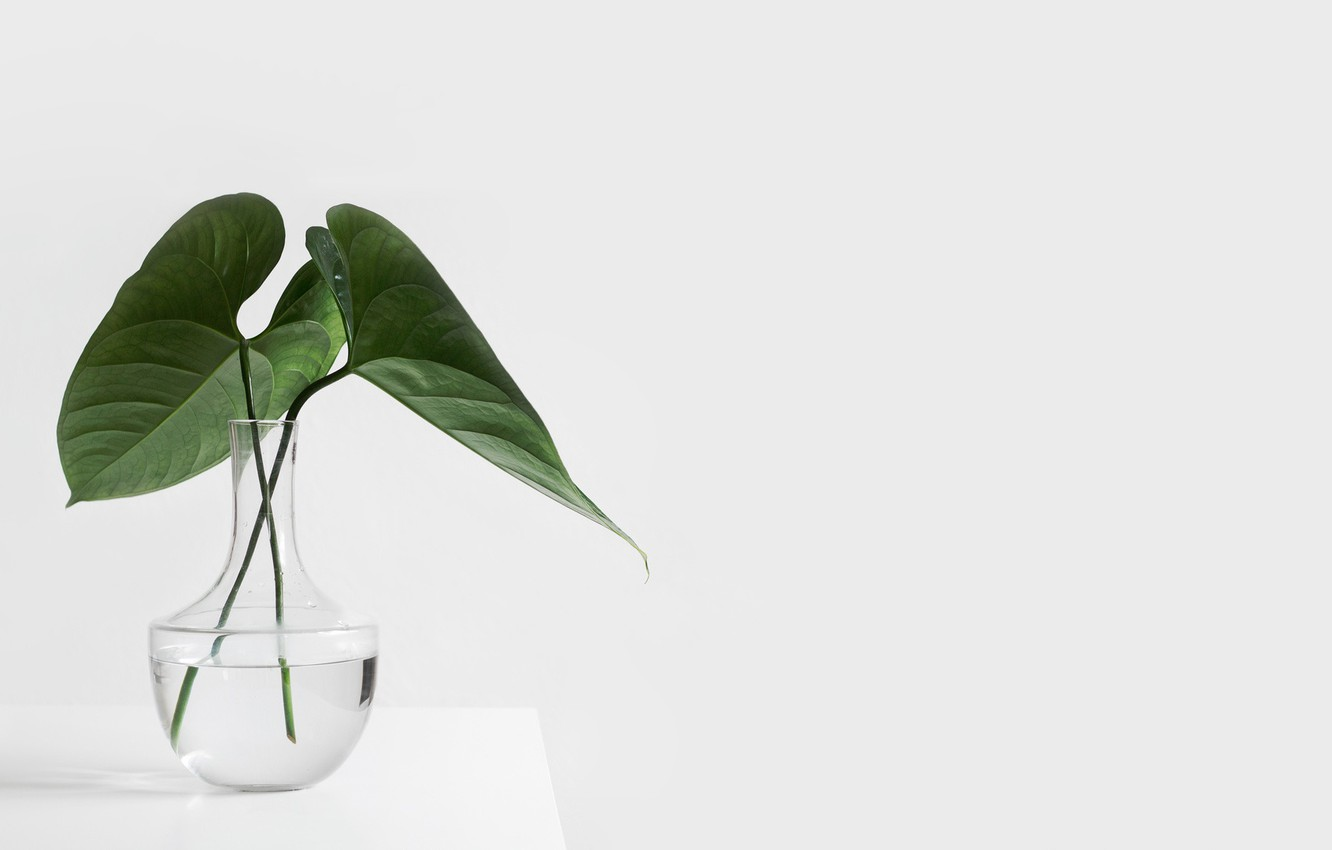
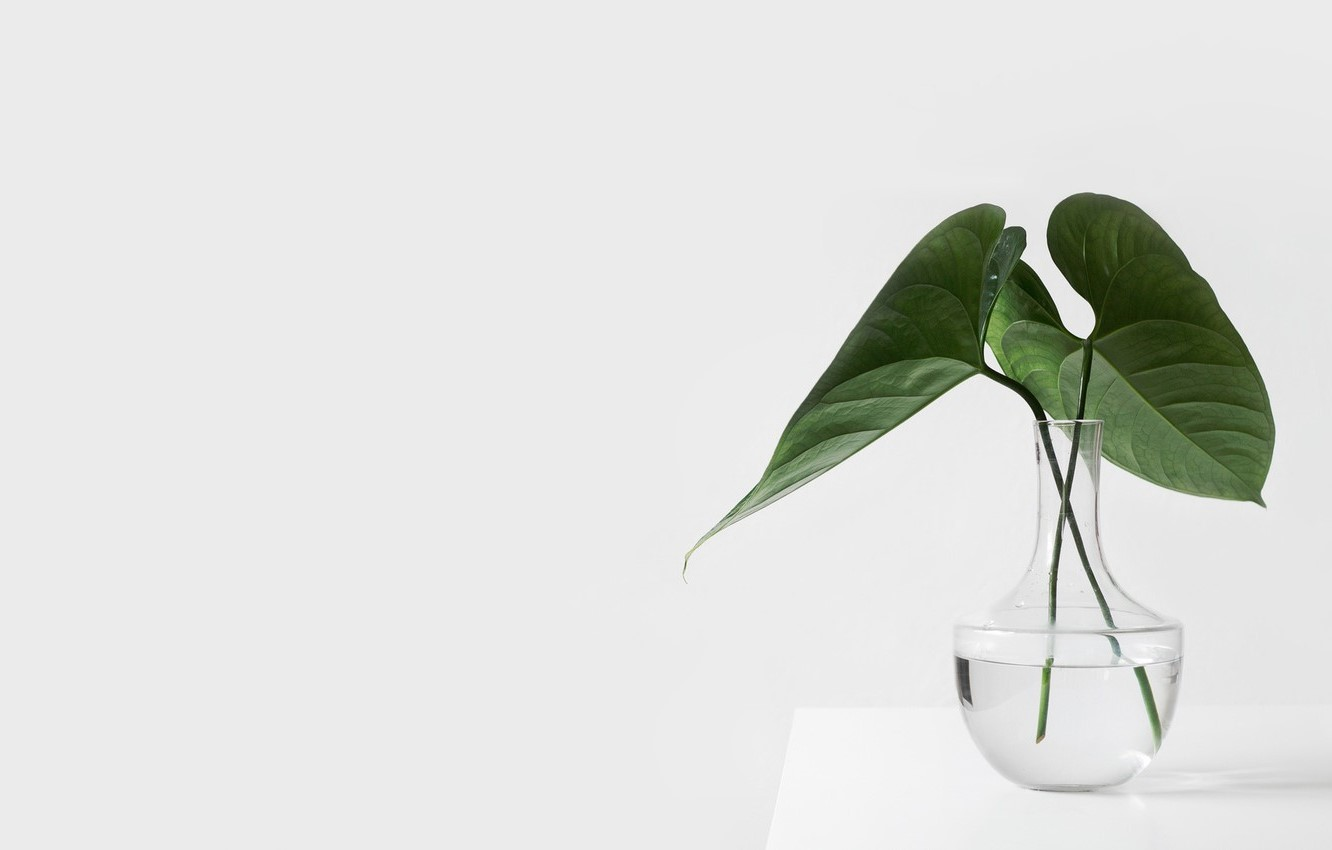
fix header properly

diff --git a/styles/main.css b/styles/main.css
@@ -1,15 +1,18 @@
 .header {
     padding: 10px;
-    text-align: right;
+    text-align: left;
     background:white;
-    font-size: 13pt;
+    font-size: 20pt;
     margin:5px;
 }
 
-#front-page {
-    background-image: url(https://img4.goodfon.com/wallpaper/nbig/8/bf/rastenie-belyi-fon-vaza-stol-stekliannaia.jpg);
-    max-width: 100%;
-    max-height: auto;
+.front-page {
+    background-color: #ebebeb;
+    background-image: url('file:///C:/Users/laur3/Dev-Academy/workspace/lauren-aickin.github.io/images/header-plant.jpg');
+    background-repeat: no-repeat;
+    background-position: right;
+    background-size: contain;
+    height: 180px;
 }
 
 /* Container for flexboxes */
@@ -27,7 +30,7 @@
     height: 300px;
   }
   
-/* Responsive layout - makes the three columns stack on top of each other instead of next to each other */
+/* Responsive layout - make the three columns stack on top of each other instead of next to each other */
 @media (max-width: 600px) {
     .row {
       -webkit-flex-direction: column;
@@ -106,4 +109,10 @@ img {
     display: block;
     margin-left: auto;
     margin-right: auto;
+}
+
+/* section for IDs */
+
+#naruto {
+    
 }

diff --git a/index.html b/index.html
@@ -11,12 +11,10 @@
   </head>
   <body>
     <!--Page head-->
- <div class="header" style="front-page">
-    <div class="row">
+ <div class="header">
+    <div class="row front-page">
       <div class="column">
-        <h1>
-          <a href="index.html">Lauren's<br>Lounge</a>
-        </h1>
+        <a href="index.html">Lauren's<br>Lounge</a>
       </div>
       <!--Menus and navigation-->
       <div class="column">
@@ -26,11 +24,13 @@
             Your browser does not support giving up.
             </audio>
           <br>
-          <span id="intro-section"> This is my coding playground. Click a link to grow with me! </span>
+          <span id="intro-section"> This is my coding playground. Click a picture to grow with me! </span>
         </p>
       </div>
       <div class="column">
-          <img class="banner-corner" src="./images/corner-scroll.jpg">
+        <h1>
+          
+        </h1>
       </div>
   </div>
 </div>
